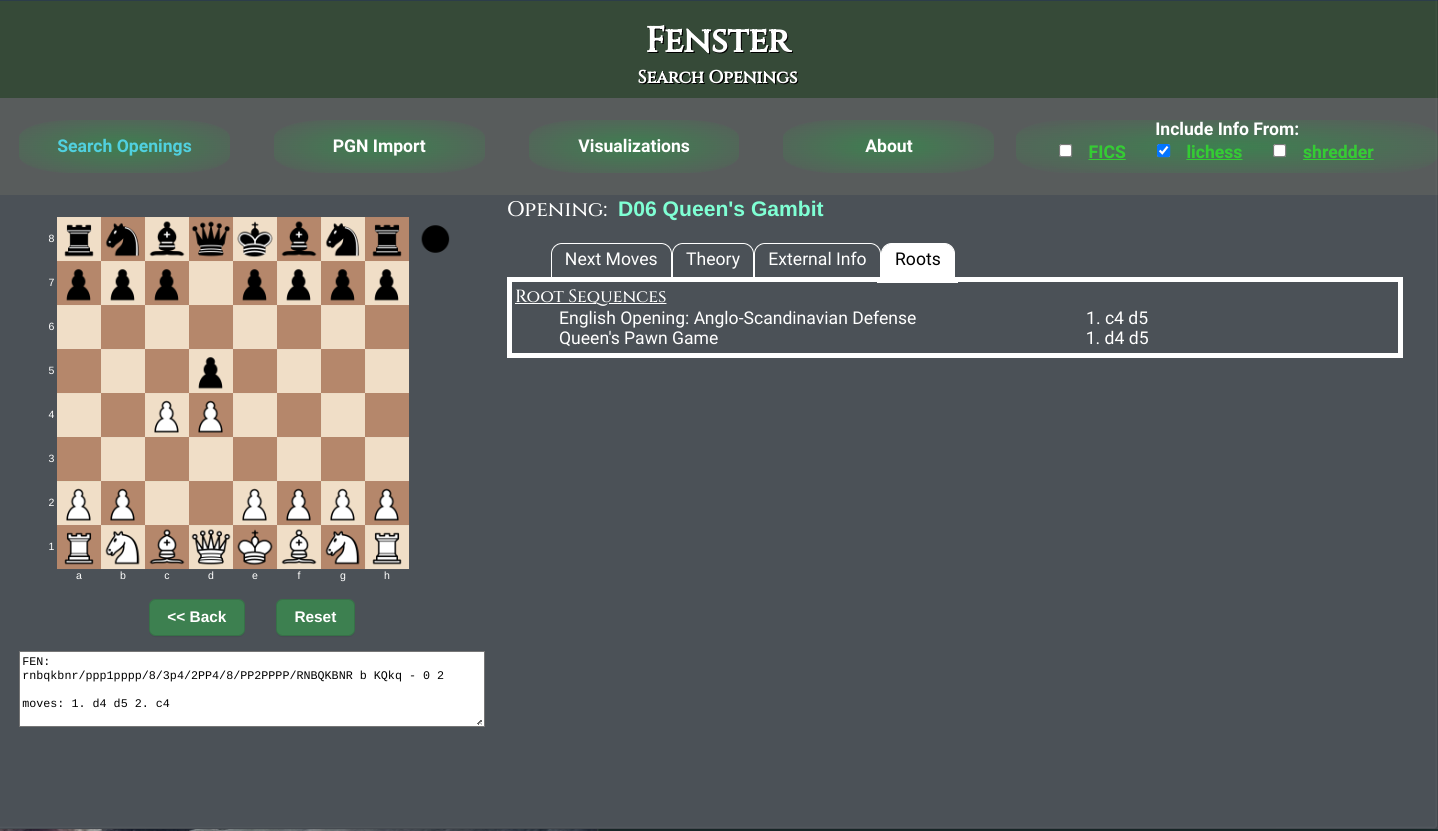
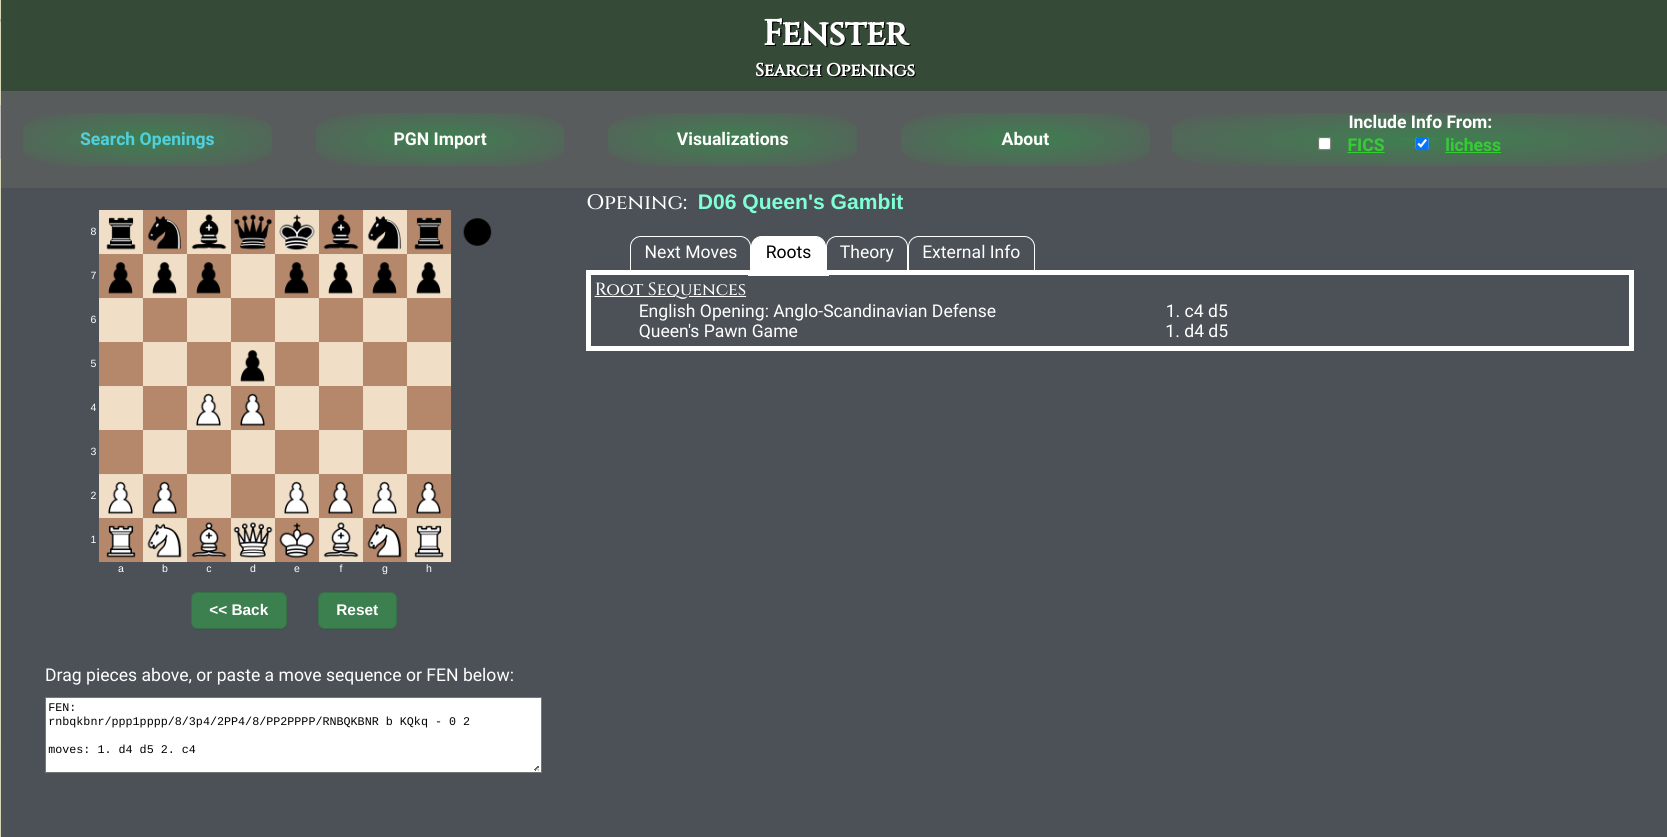
scrub FEN input; cosmetics; removed Shredder references; pull version from package.json

diff --git a/src/OpeningTabs.js b/src/OpeningTabs.js
@@ -1,16 +1,12 @@
 import { Tab, TabList, TabPanel, Tabs } from "react-tabs";
 import { NextOpenings, Roots } from "./NextOpenings.js";
-import {
-    parseMoves,
-    theoryRequest,
-    toPlay,
-} from "./utils/chessTools.js";
-import {Chess} from 'chess.js'
+import { parseMoves, theoryRequest, toPlay } from "./utils/chessTools.js";
+import { Chess } from "chess.js";
 import { useState, useEffect } from "react";
 import { OpeningAdditionalWithBarChartGrid } from "./OpeningAdditional.js";
 import { SimilarOpenings } from "./SimilarOpenings.js";
 
-const chess = new Chess()
+const chess = new Chess();
 
 const Theory2 = ({ html }) => {
     return (
@@ -65,7 +61,6 @@ const legalMove = (moves, variation) => {
         : null;
 };
 
-
 const OpeningTabs = ({
     fen,
     setFen,
@@ -103,16 +98,34 @@ const OpeningTabs = ({
             style={{ minWidth: "-webkit-fill-available", marginRight: "2em" }}
         >
             <TabList className="left" style={{ marginBottom: "0px" }}>
-                {legalMoves && legalMoves.length !== 0 && <Tab style={tabStyle}>Next Moves</Tab>}
+                {legalMoves && legalMoves.length !== 0 && (
+                    <Tab style={tabStyle}>Next Moves</Tab>
+                )}
+                {showTransitions && <Tab style={tabStyle}>Roots</Tab>}
                 {html && <Tab style={tabStyle}>Theory</Tab>}
                 {showExternal && <Tab style={tabStyle}>External Info</Tab>}
                 {searchable && <Tab style={tabStyle}>Similar Openings</Tab>}
-                {showTransitions && <Tab style={tabStyle}>Roots</Tab>}
             </TabList>
             <div style={{ border: "thick solid white" }}>
                 {legalMoves && legalMoves.length !== 0 && (
                     <TabPanel>
-                        <NextOpenings {...{ legalMoves, transpositions, handleMovePlayed }} />
+                        <NextOpenings
+                            {...{
+                                legalMoves,
+                                transpositions,
+                                handleMovePlayed,
+                            }}
+                        />
+                    </TabPanel>
+                )}
+                {showTransitions && (
+                    <TabPanel id="roots">
+                        <div className="row">
+                            <Roots
+                                {...{ moves: currentMoves, from }}
+                                style={{ marginLeft: "1em" }}
+                            />
+                        </div>
                     </TabPanel>
                 )}
                 {html && (
@@ -143,19 +156,9 @@ const OpeningTabs = ({
                         <SimilarOpenings {...{ fen, setFen }} />
                     </TabPanel>
                 )}
-                {showTransitions && (
-                    <TabPanel id="roots">
-                        <div className="row">
-                            <Roots
-                                {...{ moves: currentMoves, from }}
-                                style={{ marginLeft: "1em" }}
-                            />
-                        </div>
-                    </TabPanel>
-                )}
             </div>
         </Tabs>
     );
 };
 
-export {OpeningTabs}
+export { OpeningTabs };

diff --git a/src/SearchPage.js b/src/SearchPage.js
@@ -102,14 +102,15 @@ const Opening = ({ fen, setFen, handleMovePlayed, data }) => {
 const FENorPGN = ({ setFen, text, setText, chess }) => {
     const handleInput = (e) => {
         e.preventDefault();
-        const input = e.clipboardData.getData("text");
-        const stubFen = input.split(" ")[0];
+        let input = e.clipboardData.getData("text");
+        const stubFen = input.split(" ")[0].replace('"', '');
 
         // FEN?
         if (FENEX.test(stubFen)) {
             try {
-                const fen = input;
-                chess.current.load(fen);
+                let fen = input.replaceAll(/[\"\n]/g, '');
+                chess.current.load(fen);  
+                fen = chess.current.fen()   //scrubs e.p. falsities
                 setFen(fen);
                 setText(fen);
             } catch (ex) {
@@ -131,7 +132,7 @@ const FENorPGN = ({ setFen, text, setText, chess }) => {
         <textarea
             id="fenpgn"
             spellCheck="false"
-            placeholder={"Move, or paste in FEN/PGN here"}
+            placeholder={"Paste moves or FEN here"}
             onChange={() => {}}
             onPaste={(e) => handleInput(e)}
             value={text}
@@ -195,7 +196,10 @@ const SearchPage = ({ chess, fen, setFen }) => {
                 </div>
 
                 <div className="row">
-                    <FENorPGN {...{ setFen, text, setText, chess }} />
+                    <div className="column">
+                    <div className="row" style={{marginBottom: "10px"}}>Drag pieces above, or paste a move sequence or FEN below:</div>
+                    <div className="row"><FENorPGN {...{ setFen, text, setText, chess }} /> </div>
+                    </div>
                 </div>
             </div>
 

diff --git a/src/AboutPage.js b/src/AboutPage.js
@@ -26,11 +26,6 @@ const About = () => (
                         <a href="https://www.ficsgames.org/">FICS</a>
                     </li>
                     <li>
-                        <a href="https://www.shredderchess.com/online/opening-database.html">
-                            Shredder
-                        </a>
-                    </li>
-                    <li>
                         <a href="https://lichess.org/">lichess</a>
                     </li>
                 </ul>
@@ -74,7 +69,7 @@ const About = () => (
                 </p>
                 <p>From the current position, we can arrive at all three positons
                 arising from the variations listed in the Next Moves tab.
-                However, only one variation can be played directly (<b>2. cxd5</b>).
+                However, two continuations can be played directly (<b>2. cxd5</b> and <b>2.Nf3</b>).
                 The two others are transpositions whose move sequences are in
                 conflict with the current variation. In these cases, <b>2. c4</b> can't
                 be played, because <b>1. c4</b> was played already. If you click on the
@@ -103,8 +98,8 @@ const About = () => (
             <h3>External Info</h3>
             <p>
                 At the upper right, available on all pages, is a selector to
-                include information from FICS, lichess, or Shredder. If one of
-                These has been selected, then the External Info tab will be
+                include information from FICS or lichess. If one of
+                these has been selected, then the External Info tab will be
                 displayed. On this tab is game data from the external site(s)
                 selected.
                 <img

diff --git a/src/NextOpenings.js b/src/NextOpenings.js
@@ -30,7 +30,6 @@ const NextOpeningsGrid = ({ handleMovePlayed, legalMoves, sortBy }) => {
     }
 
     const ListItem = ({ name, score, eco, theMove, nextPly }, index) => {
-
         const backgroundColor = index % 2 ? "darkslategrey" : "slategrey";
         return (
             <div
@@ -210,24 +209,18 @@ const NextOpenings = ({ legalMoves, transpositions, handleMovePlayed }) => {
 const Roots = ({ moves: omoves, from }) => {
     if (from.length === 0) return null;
 
-    const tmoves = omoves.slice(0, omoves.lastIndexOf(" "));
-
     const roots = Object.entries(from).map(([, { name, moves }]) => {
-        if (moves !== tmoves) {
-            return (
-                <Fragment key={name}>
-                    <div
-                        className="white"
-                        style={{ textAlign: "left", marginLeft: "40px" }}
-                    >
-                        {name}
-                    </div>
-                    <div className="white">{moves}</div>
-                </Fragment>
-            );
-        } else {
-            return null;
-        }
+        return (
+            <Fragment key={name}>
+                <div
+                    className="white"
+                    style={{ textAlign: "left", marginLeft: "40px" }}
+                >
+                    {name}
+                </div>
+                <div className="white">{moves}</div>
+            </Fragment>
+        );
     });
 
     return (

diff --git a/src/common/consts.js b/src/common/consts.js
@@ -1,5 +1,7 @@
+import packageJson from '../../package.json' // okay if it's open source anyway
+
 const APP_NAME = "Fenster";
-const VERSION = "2.3.3"; // keep in sync with package.json version!
+const VERSION = packageJson.version
 
 const INCR = 5; // list increment
 
@@ -29,7 +31,7 @@ SUBTITLES[modes.visualization] = "Visualization";
 SUBTITLES[modes.about] = "About Fenster";
 
 // Note: shredder has been down before; check https://www.shredderchess.com/online/opening-database.html or see fenster-s getOpeningAdditional resolver
-
+// Update: removed by request of the Shredder guy
 const siteUrls = {
     FICS: "https://www.freechess.org/",
     lichess: "https://lichess.org/",
